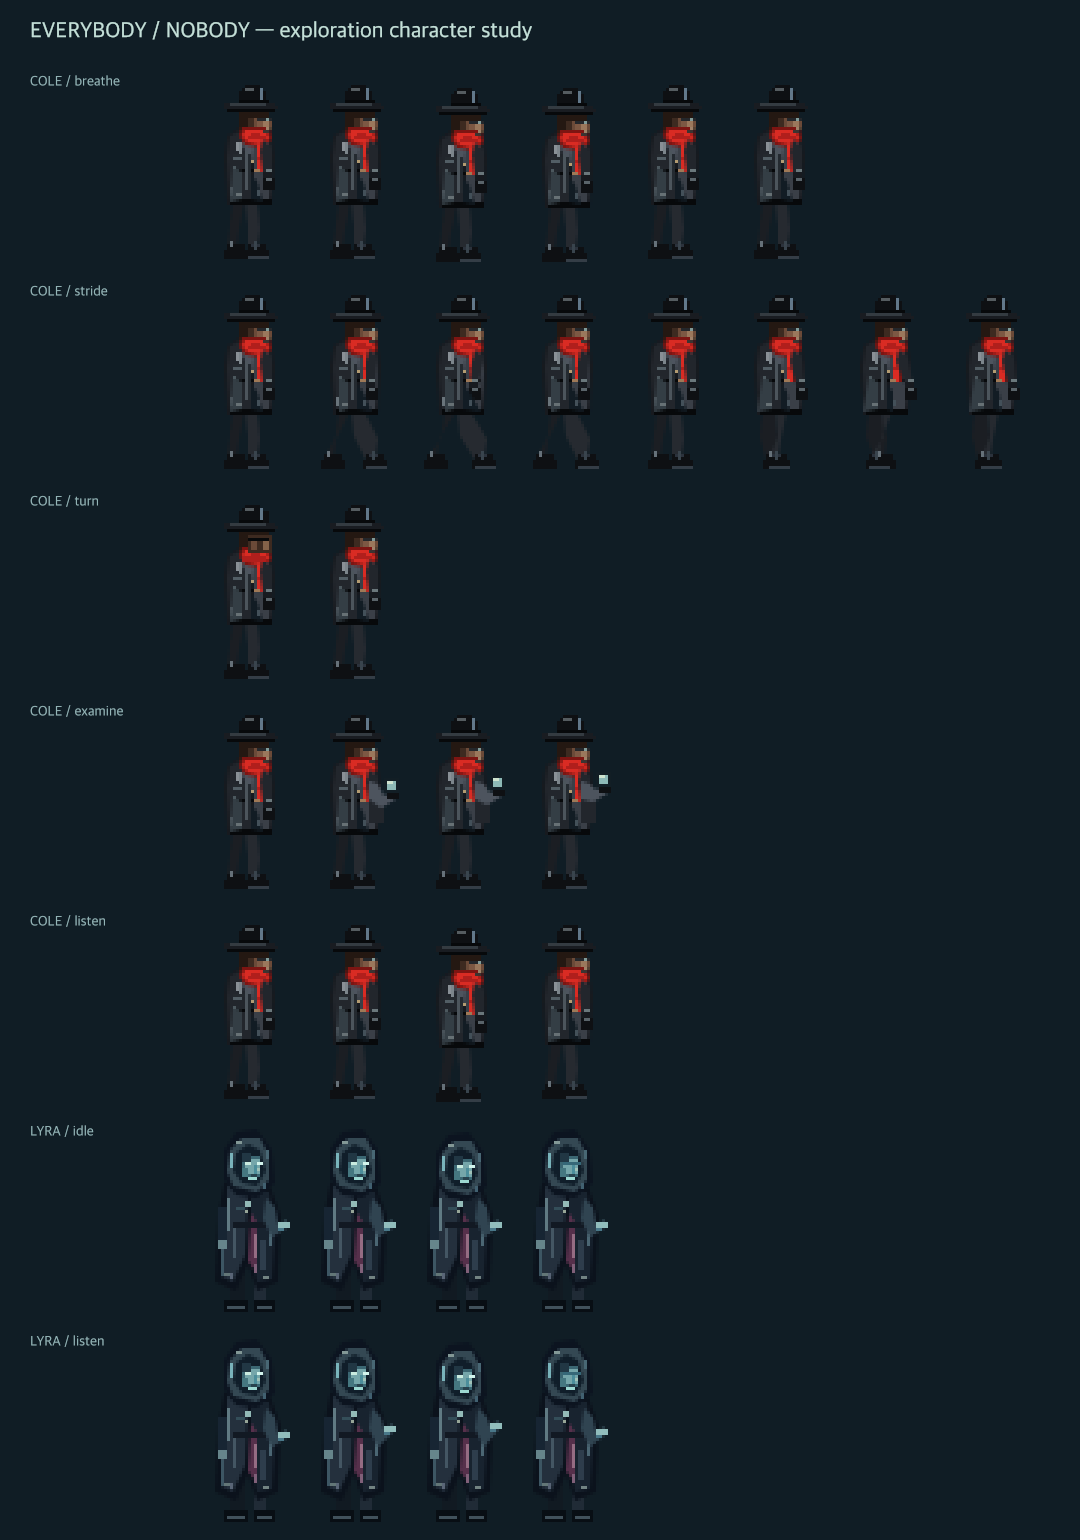
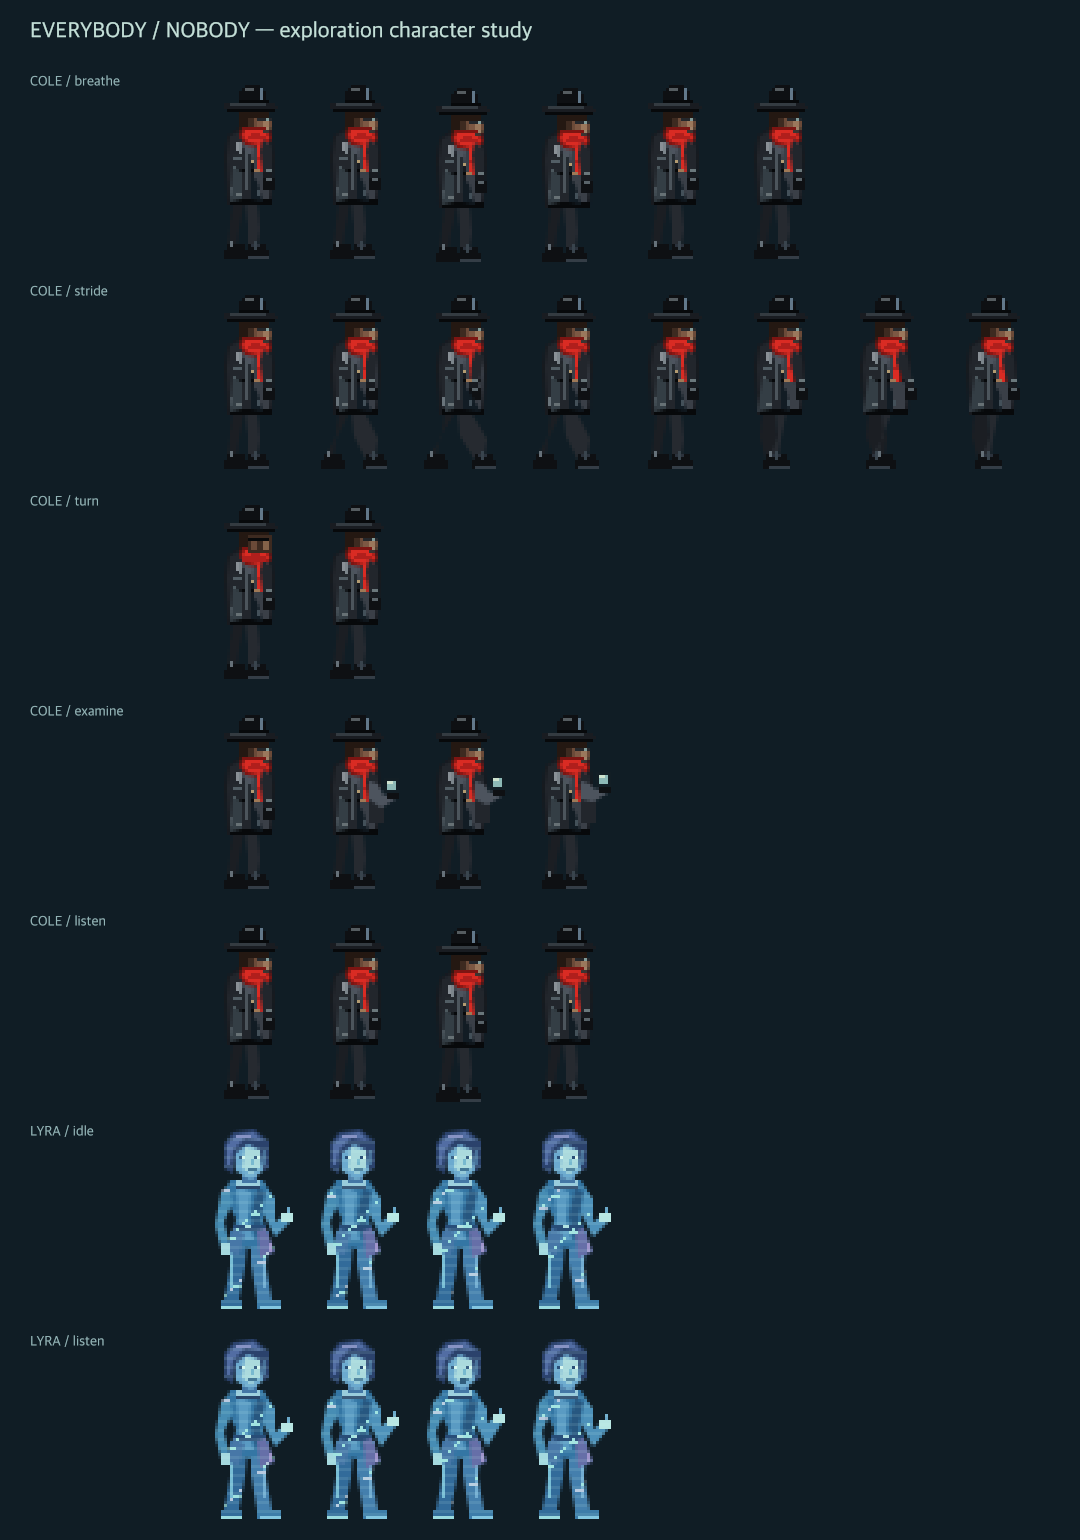
Give Lyra a luminous holographic companion design

Changed region(s): [[0.1833, 0.7169, 0.3667, 0.9974], [0.3972, 0.7169, 0.5806, 0.9974]]

diff --git a/src/character-art.ts b/src/character-art.ts
@@ -716,7 +716,7 @@ export function makeLyraFrame(): HTMLCanvasElement {
   return framesFromRows(LYRA_W, [LYRA_IDLE], LYRA_PALETTE)[0];
 }
 
-/** 32×64 exploration sheet: a hood, layered cloak, hands and a face within the light. */
+/** Lyra's own holographic avatar: cropped hair, a high-collar suit and memory traces. */
 function lyraPortrait(phase: number, talking: boolean): HTMLCanvasElement {
   return canvasTexture(32, 64, (c) => {
     const r = (color: string, x: number, y: number, w: number, h: number) => {
@@ -730,119 +730,156 @@ function lyraPortrait(phase: number, talking: boolean): HTMLCanvasElement {
       c.closePath();
       c.fill();
     };
-    const lift = phase === 2 ? 1 : 0;
-    r('#111a22', 10, 48, 5, 14);
-    r('#202b36', 18, 48, 4, 14);
-    r('#080e14', 8, 60, 8, 4);
-    r('#080e14', 18, 60, 7, 4);
-    r('#41515b', 9, 62, 6, 1);
-    r('#41515b', 19, 62, 5, 1);
-    p('#0b121c', [
-      [8, 21],
-      [23, 21],
-      [27, 32],
-      [26, 54],
-      [19, 57],
-      [16, 48],
-      [12, 57],
-      [5, 54],
-      [6, 32],
+    // An asymmetric stance and structured clothing keep the silhouette human.
+    p('#326b9a', [
+      [10, 37],
+      [16, 37],
+      [15, 49],
+      [13, 60],
+      [8, 60],
+      [10, 49],
     ]);
-    p('#24303d', [
-      [9, 22],
-      [16, 24],
-      [15, 45],
-      [11, 54],
-      [7, 52],
-      [9, 35],
+    p('#447fad', [
+      [17, 37],
+      [23, 37],
+      [22, 49],
+      [24, 60],
+      [19, 60],
+      [17, 48],
     ]);
-    p('#18232f', [
-      [17, 23],
-      [23, 24],
-      [25, 37],
-      [24, 53],
-      [19, 54],
-      [17, 43],
-    ]);
-    p('#56304b', [
-      [17, 31],
-      [19, 34],
-      [19, 51],
-      [16, 47],
-    ]);
-    r('#607a83', 9, 26, 1, 11);
-    r('#3d5663', 7, 42, 1, 10);
-    r('#4b6673', 23, 30, 1, 12);
-    r('#121923', 11, 34, 11, 2);
-    r('#93bab7', 15, 27, 2, 2);
-    r('#344e59', 12, 29, 3, 1);
-    p('#0c1420', [
-      [8, 20 + lift],
-      [8, 10 + lift],
-      [12, 4 + lift],
-      [19, 3 + lift],
-      [24, 10 + lift],
-      [25, 21 + lift],
-      [19, 26 + lift],
-      [12, 25 + lift],
-    ]);
-    p('#344853', [
-      [9, 17 + lift],
-      [10, 10 + lift],
-      [14, 6 + lift],
-      [20, 6 + lift],
-      [23, 12 + lift],
-      [23, 20 + lift],
-      [19, 24 + lift],
-      [11, 22 + lift],
-    ]);
-    p('#101e2a', [
-      [12, 11 + lift],
-      [16, 8 + lift],
-      [20, 10 + lift],
-      [22, 17 + lift],
-      [19, 22 + lift],
-      [14, 21 + lift],
-      [11, 17 + lift],
-    ]);
-    r('#3b6773', 14, 12 + lift, 6, 7);
-    r('#75a6aa', 15, 13 + lift, 5, 5);
-    r('#213744', 14, 11 + lift, 3, 3);
-    r('#457780', 14, 16 + lift, 2, 3);
-    r('#a0c2b8', 18, 16 + lift, 2, 1);
-    r('#28434e', 17, 18 + lift, 2, 1);
-    r('#c9ebe0', 15, 14 + lift, 2, 1);
-    r('#d3f5ed', 19, 14 + lift, 2, 1);
-    if (phase === 3) r('#366878', 15, 14 + lift, 6, 1);
-    r('#4c8e9b', 18, 15 + lift, 1, 3);
-    r('#9cd8d1', 16, 19 + lift, 3, 1);
-    r('#79b3bb', 10, 11 + lift, 1, 5);
-    r('#486774', 22, 10 + lift, 1, 3);
-    r('#839896', 12, 7 + lift, 2, 1);
-    r('#416070', 21, 21 + lift, 1, 2);
-    r('#445663', 11, 36, 1, 10);
-    r('#2e3d4c', 20, 40, 2, 10);
-    r('#956c83', 18, 38, 1, 8);
-    r('#637677', 8, 51, 3, 1);
-    r('#728382', 21, 52, 2, 1);
-    r('#97a597', 15, 30, 1, 1);
-
-    const hand = talking ? [0, 2, 3, 1][phase] : 0;
-    p('#304451', [
-      [22, 26],
-      [25, 29],
-      [26, 35 - hand],
-      [29, 33 - hand],
-      [29, 36 - hand],
-      [24, 39],
+    r('#77bdd5', 10, 43, 1, 13);
+    r('#71acd1', 21, 44, 1, 12);
+    r('#336d9a', 7, 60, 7, 3);
+    r('#3d7da9', 19, 60, 8, 3);
+    r('#9bdbdf', 7, 62, 7, 1);
+    r('#84c7e0', 20, 62, 7, 1);
+    p('#3476a4', [
+      [10, 20],
+      [21, 20],
+      [24, 25],
       [21, 33],
+      [23, 41],
+      [17, 43],
+      [10, 41],
+      [12, 33],
+      [8, 25],
     ]);
-    r('#91bdbc', 26, 34 - hand, 4, 2);
-    r('#497889', 26, 36 - hand, 2, 1);
-    r('#172533', 6, 29, 3, 12);
-    r('#66858b', 6, 40, 3, 3);
-    r('#596576', 10, 51, 1, 2);
-    r('#806079', 18, 48, 1, 3);
+    p('#5a9bc3', [
+      [12, 22],
+      [17, 24],
+      [16, 33],
+      [18, 40],
+      [12, 40],
+      [13, 32],
+    ]);
+    p('#275780', [
+      [19, 23],
+      [22, 24],
+      [20, 33],
+      [22, 39],
+      [19, 40],
+      [17, 32],
+    ]);
+    r('#99ccdc', 12, 20, 8, 2);
+    r('#29466a', 12, 22, 8, 1);
+    r('#284d78', 11, 35, 11, 2);
+    r('#b1e2e1', 15, 35, 2, 1);
+    // A small split peplum gives Lyra a recognisable, non-military outline.
+    p('#4777a7', [
+      [11, 36],
+      [15, 38],
+      [13, 45],
+      [8, 44],
+    ]);
+    p('#666fa8', [
+      [19, 37],
+      [22, 36],
+      [25, 44],
+      [20, 46],
+    ]);
+    r('#a095cc', 23, 41, 1, 3);
+    const hand = talking ? [0, 2, 3, 1][phase] : 0;
+    p('#478db4', [
+      [9, 22],
+      [7, 24],
+      [5, 35],
+      [7, 43],
+      [10, 42],
+      [8, 34],
+      [11, 27],
+    ]);
+    r('#a5d9df', 7, 41, 3, 4);
+    p('#4d91ba', [
+      [22, 23],
+      [25, 26],
+      [25, 34 - hand],
+      [29, 31 - hand],
+      [30, 34 - hand],
+      [25, 39],
+      [21, 31],
+    ]);
+    r('#b8e6e3', 27, 31 - hand, 4, 3);
+    r('#6baacb', 29, 29 - hand, 1, 2);
+    // Short swept hair frames an uncovered face rather than a glowing hood.
+    r('#4376a5', 14, 16, 5, 5);
+    p('#6caacf', [
+      [11, 8],
+      [18, 6],
+      [22, 10],
+      [21, 17],
+      [17, 20],
+      [12, 17],
+    ]);
+    p('#abdadd', [
+      [15, 9],
+      [20, 10],
+      [20, 16],
+      [17, 18],
+      [14, 16],
+    ]);
+    p('#2b426c', [
+      [8, 8],
+      [11, 4],
+      [18, 3],
+      [23, 7],
+      [23, 16],
+      [21, 17],
+      [20, 10],
+      [16, 8],
+      [12, 11],
+      [11, 18],
+      [8, 16],
+    ]);
+    p('#526da3', [
+      [9, 8],
+      [12, 5],
+      [18, 4],
+      [21, 7],
+      [15, 6],
+      [11, 10],
+      [10, 15],
+      [9, 15],
+    ]);
+    r('#8793c4', 12, 5, 5, 1);
+    r('#48729a', 21, 10, 1, 5);
+    r('#294f78', 13, 12, 2, 1);
+    r('#294f78', 18, 12, 2, 1);
+    r('#d8f7ee', 14, 12, 1, 1);
+    r('#d8f7ee', 19, 12, 1, 1);
+    r('#78b9cf', 17, 13, 1, 2);
+    r('#447897', 16, 16, 3, 1);
+    if (talking && phase === 2) r('#315d7c', 16, 16, 2, 2);
+    // Data travels inside the silhouette; no full-frame flicker or missing face.
+    c.save();
+    c.globalCompositeOperation = 'source-atop';
+    for (let i = 0; i < 18; i++) {
+      const x = 7 + ((i * 7) % 18),
+        y = 23 + ((i * 11 + phase * 2) % 36);
+      r(i % 3 === 0 ? '#b8cae0' : '#a0e3e0', x, y, i % 4 === 0 ? 3 : 1, 1);
+    }
+    c.globalAlpha = 0.11;
+    for (let y = 6 + (phase % 2); y < 63; y += 3) r('#c4f3f0', 5, y, 26, 1);
+    c.restore();
   });
 }
 export const LYRA_STORY_FRAMES: Record<string, HTMLCanvasElement[]> = {

diff --git a/src/renderer.ts b/src/renderer.ts
@@ -872,7 +872,20 @@ export class Renderer {
     c.drawImage(this.mist, x - 55 * figure, y - 100 * figure, 110 * figure, 120 * figure);
     c.restore();
     const rim = rimAt(lights, worldX, y - 40 * figure, facing, t);
+    c.save();
+    c.globalAlpha = 0.9;
     this.sprites.draw(c, 'lyra', speaking ? 'listen' : 'idle', t, x, y, facing, 70 * figure, rim);
+    c.restore();
+    // A restrained projector footprint replaces the weight of a physical shadow.
+    c.save();
+    c.globalCompositeOperation = 'screen';
+    c.strokeStyle = '#88cfe0';
+    c.globalAlpha = 0.22;
+    c.lineWidth = 0.6;
+    c.beginPath();
+    c.ellipse(x, y + 1, 12 * figure, 2 * figure, 0, 0, Math.PI * 2);
+    c.stroke();
+    c.restore();
   }
   private weather(c: CanvasRenderingContext2D, t: number, cam: number, reduced: boolean) {
     const W = this.canvas.width;

diff --git a/src/notebook.css b/src/notebook.css
@@ -626,3 +626,16 @@ body {
     font-size: 13px;
   }
 }
+/* Lyra remains a signal in the margins of Cole's physical notebook. */
+.dialogue.lyra .portrait-mark {
+  color: #48729a;
+  background: repeating-linear-gradient(0deg, #476f9510 0 2px, transparent 2px 5px);
+  border: 1px solid #56799466;
+}
+.dialogue.lyra .portrait-mark span {
+  color: #607cab;
+}
+.companion .waveform {
+  color: #91cce3;
+  text-shadow: 0 0 9px #587cbc88;
+}

diff --git a/docs/QA.md b/docs/QA.md
@@ -230,3 +230,9 @@ Browser access restored through the Chrome extension. Verified the current devel
 - Redesigned the surrounding interface, notebook, evidence reader, dialogue, map and settings around cloth, warm paper, ink, tabs and annotations. Existing keyboard controls and record-selection behavior are retained. Phone evidence cards use a single column.
 - Browser checks: entered the studio from the street, re-examined the saved journal, inspected the dialogue/evidence layout, notebook and full record at desktop and 390×844, and inspected the map. Inspected studio/Den scene captures from the actual renderer. No complete Den/story playthrough or physical-device touch/performance check in this pass.
 - All 38 tests, formatting, and the GitHub Pages production build pass. New tests cover bounded relief across viewport sizes and smooth shelter-light boundaries.
+
+## Lyra holographic avatar
+
+Replaced Lyra's hooded exploration silhouette with an original blue-violet holographic avatar inspired by the requested Cortana direction: cropped hair, uncovered face, a structured high-collar suit, memory traces, and an open-hand listening pose. Added a faint projection footprint and a blue signal accent in her notebook dialogue. Story, voice text, clue gates, and combat remain unchanged. No Halo assets were imported.
+
+Inspected the actual renderer's Den capture with Cole and Lyra together and regenerated the character study. All 38 tests, formatting, and the Pages production build pass. This verification used renderer captures, not a live playthrough to Lyra's gated encounter.
